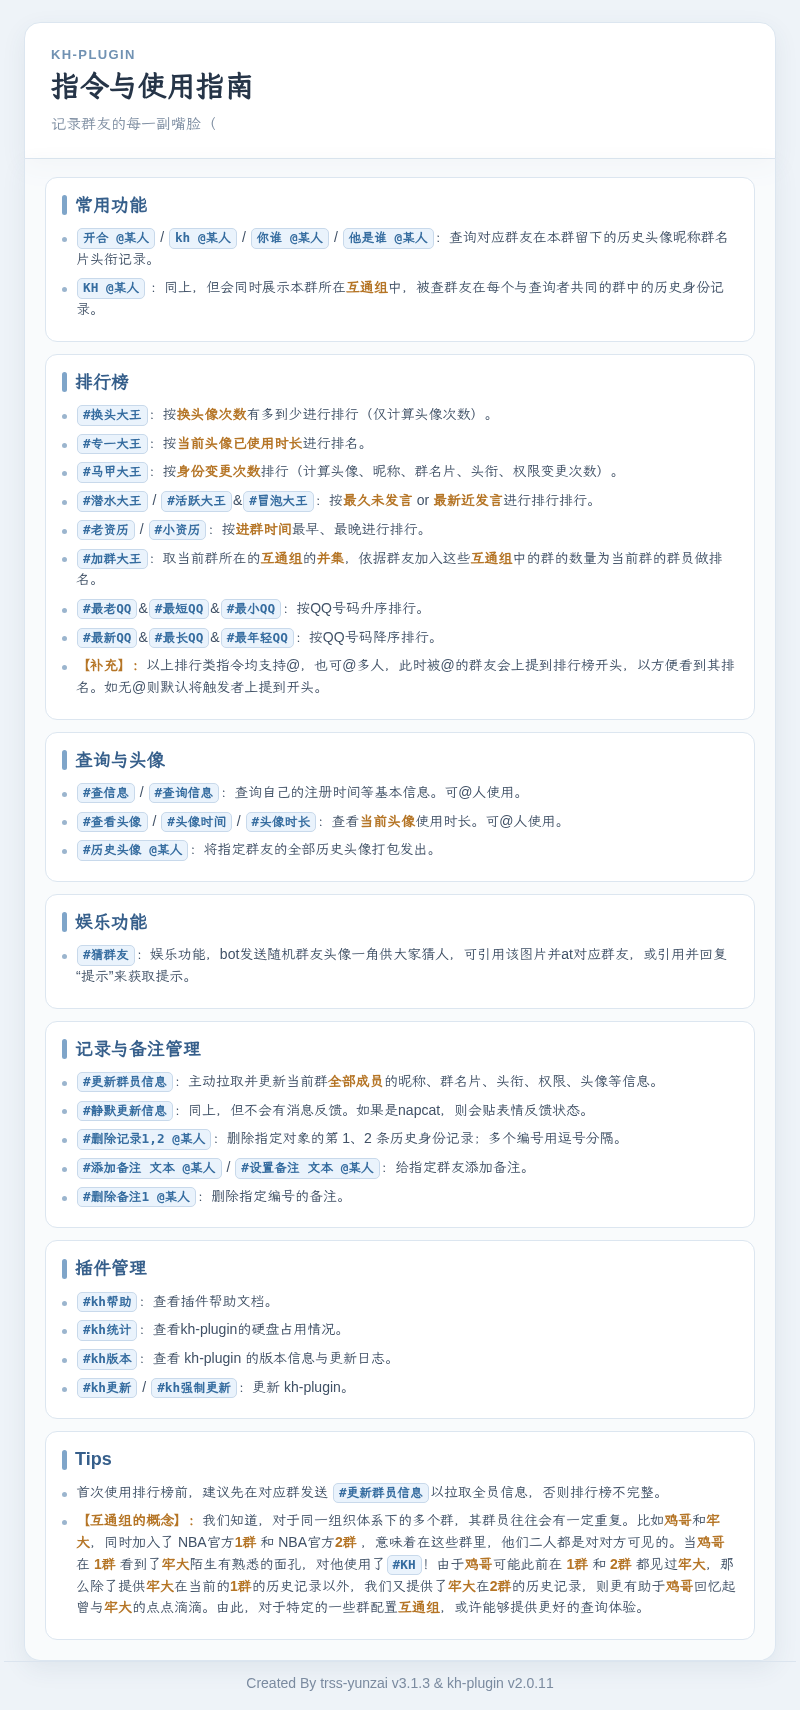
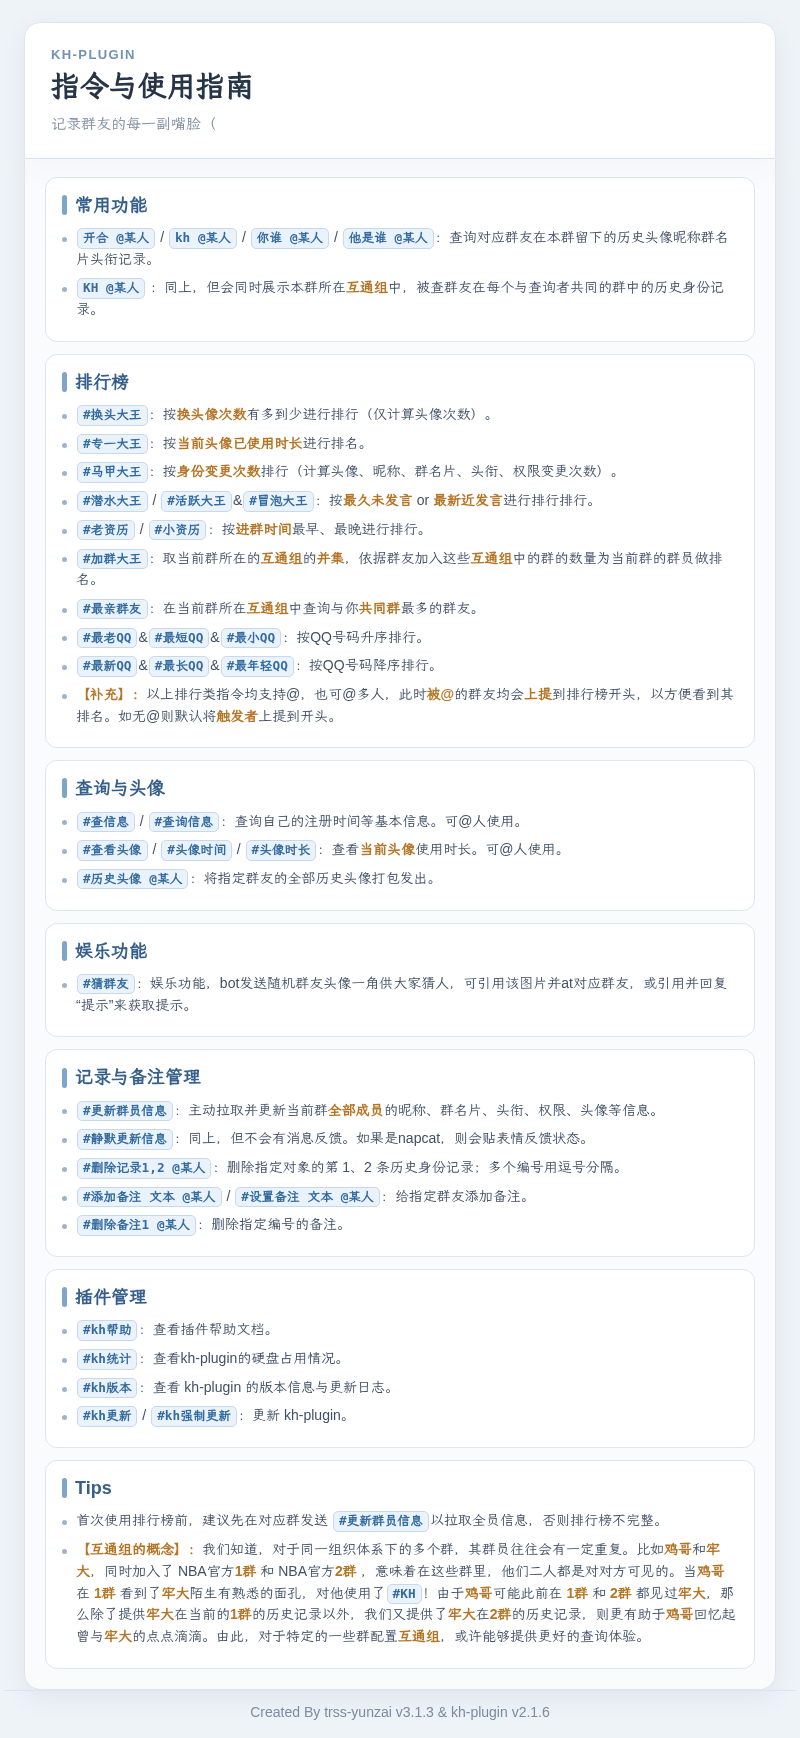
modified:   resources/img/help.png

diff --git a/components/help.js b/components/help.js
@@ -2,7 +2,7 @@
  * @Author: 渔火Arcadia  https://github.com/yhArcadia
  * @Date: 2026-08-19 21:41:44
  * @LastEditors: 渔火Arcadia
- * @LastEditTime: 2026-09-16 20:53:27
+ * @LastEditTime: 2026-09-17 16:18:38
  * @FilePath: /kh-plugin/components/help.js
  * @Description: 帮助文档渲染组件
  * 
@@ -72,11 +72,11 @@ export function helpCardData(file = helpMarkdown) {
     };
 }
 
-export async function renderHelpImageBuffer(data = helpCardData()) {
+export async function renderHelpImageBuffer(data = helpCardData(), scale) {
     const image = await screenshotBuffer(
         'help',
         'help-info',
-        { ...data, bodyScale: bodyScale(config.renderScale), imgType: 'png' },
+        { ...data, bodyScale: bodyScale(scale ? scale : config.renderScale), imgType: 'png' },
         helpTemplate
     );
     if (!Buffer.isBuffer(image) || image.length === 0) {
